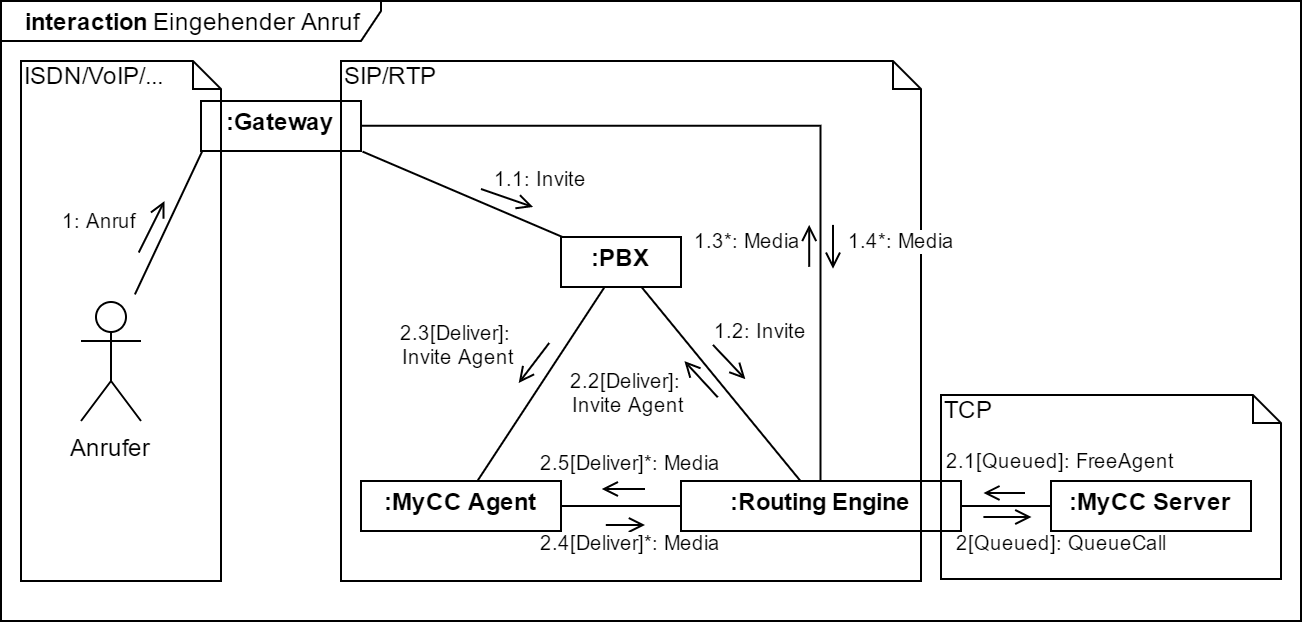
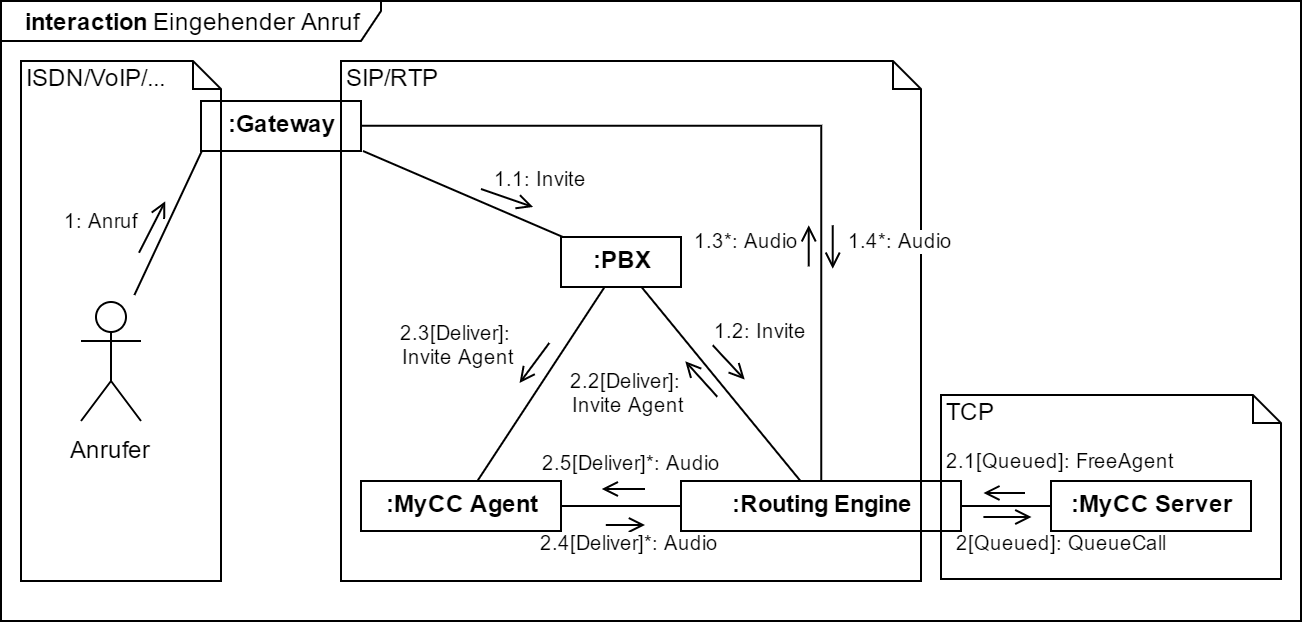
Clarified / Corrected Figure 1.2

diff --git a/Thesis/chapters/Einleitung.tex b/Thesis/chapters/Einleitung.tex
@@ -44,9 +44,9 @@ In Version zehn von MyCC kommt die Routing Engine als neue wichtige Software-Kom
 	\caption[Behandlung eingehender Rufe in MyCC]{\textit{Behandlung eingehender Anrufe in MyCC.}}
 	\label{fig:InteractionIncomingCall}
 \end{figure}
-\noindent Ruft ein Endkunde das Contactcenter an, wird über das Gateway die Verbindung zwischen dem Telefonnetz des Anrufers und der PBX hergestellt. Die PBX baut dann über SIP eine Verbindung zur Routing Engine auf. Ist die Sitzung erfolgreich hergestellt, kann der Medienstrom zwischen dem Gateway und der Routing Engine direkt ausgetauscht werden. Nun hat die Routing Engine Kontrolle über den Konversationsablauf und kann verschiedene Aktionen ausführen. Zum Beispiel kann eine Zustellung an einen freien Agenten über eine ACD initiiert werden. Dafür weist die Routing Engine dem Anruf einen Wissensbereich und eine Sprache zu und schickt dem MyCC-Server die Anweisung, den aktuellen Ruf in der Warteschleife einer ACD zu platzieren. Der Server antwortet mit der Information, welchem freien und qualifizierten Agenten der Ruf zugeteilt werden soll. Anschließend wird über die PBX eine Sitzung zwischen dem Agenten und der Routing Engine ausgehandelt. Die Routing Engine führt nun beide Medienströme zusammen, sodass die Medien des Agenten beim Anrufer ankommen und umgekehrt. 
+\noindent Ruft ein Endkunde das Contactcenter an, wird über das Gateway die Verbindung zwischen dem Telefonnetz des Anrufers und der PBX hergestellt (Nachrichten 1 und 1.1 in der Abbildung). Die PBX handelt über SIP eine Sitzung mit der Routing Engine aus (Nachricht 1.2). Ist die Sitzung erfolgreich hergestellt, wird der Medienstrom über das Real-Time Transport Protocol (RTP) zwischen dem Gateway und der Routing Engine direkt ausgetauscht (Nachrichten 1.3 und 1.4). Dieser Medienstrom beinhaltet die eigentlichen Audiodaten, die beim Anruf ausgetauscht werden. Die Routing Engine hat nun die Kontrolle über den Konversationsablauf und kann verschiedene Aktionen ausführen. Zum Beispiel kann eine Zustellung an einen freien Agenten über eine ACD initiiert werden. Dafür weist die Routing Engine dem Anruf einen Wissensbereich und eine Sprache zu und schickt dem MyCC-Server die Anweisung, den aktuellen Ruf in der Warteschleife einer ACD zu platzieren (Nachricht 2). Der Server antwortet mit der Information, welchem freien und qualifizierten Agenten der Ruf zugeteilt werden soll (Nachricht 2.1). Anschließend wird über die PBX eine Sitzung zwischen dem Agenten und der Routing Engine ausgehandelt (Nachrichten 2.2 bis 2.5). Die Routing Engine führt nun beide Medienströme zusammen, sodass die Audiodaten des Agenten beim Anrufer ankommen und umgekehrt. 
 \newline
-Die Routing Engine hat eine hohe Kontrolle darüber, wie mit einem eingehenden Anruf umgegangen wird. So kann der Anruf zum Beispiel nicht zugestellt, sondern alternativ sofort aufgelegt werden (sollte der Anruf beispielsweise außerhalb der Geschäftszeiten erfolgen). Auch die Manipulation des Medienstroms zwischen Anrufer und Agent ist denkbar. Die vorliegende Ausarbeitung beschäftigt sich mit dem Entwurf und der Implementierung einer domänenspezifischen Sprache, die es Benutzern von MyCC ermöglicht, das Verhalten der Routing Engine frei zu spezifizieren. Die domänenspezifische Sprache dient dazu, den Ablauf aller von der Routing Engine auszuführenden Schritte zur Behandlung einer eingehenden Konversation zu modellieren. Sie wird im Folgenden entsprechend der Abkürzung des englischen Fachbegriffs ``domain-specific language'' als DSL betitelt. Ein einzelnes in der DSL verfasstes Modell, welches einen Ablauf spezifiziert, wird im Folgenden auch Konversationsrouting oder einfach DSL-Modell genannt.
+Die Routing Engine hat eine hohe Kontrolle darüber, wie mit einem eingehenden Anruf umgegangen wird. So kann der Anruf zum Beispiel nicht zugestellt, sondern alternativ sofort aufgelegt werden (sollte der Anruf beispielsweise außerhalb der Geschäftszeiten erfolgen). Da die Routing Engine immer die Kontrolle über den Medienstrom behält, ist auch die Bearbeitung der ausgetauschten Audiodaten zwischen Anrufer und Agent denkbar. Die vorliegende Ausarbeitung beschäftigt sich mit dem Entwurf und der Implementierung einer domänenspezifischen Sprache, die es Benutzern von MyCC ermöglicht, das Verhalten der Routing Engine frei zu spezifizieren. Die domänenspezifische Sprache dient dazu, den Ablauf aller von der Routing Engine auszuführenden Schritte zur Behandlung einer eingehenden Konversation zu modellieren. Sie wird im Folgenden entsprechend der Abkürzung des englischen Fachbegriffs ``domain-specific language'' als DSL betitelt. Ein einzelnes in der DSL verfasstes Modell, welches einen Ablauf spezifiziert, wird im Folgenden auch Konversationsrouting oder einfach DSL-Modell genannt.
  
 \section{Motivation}
 \label{sec:Motivation}
